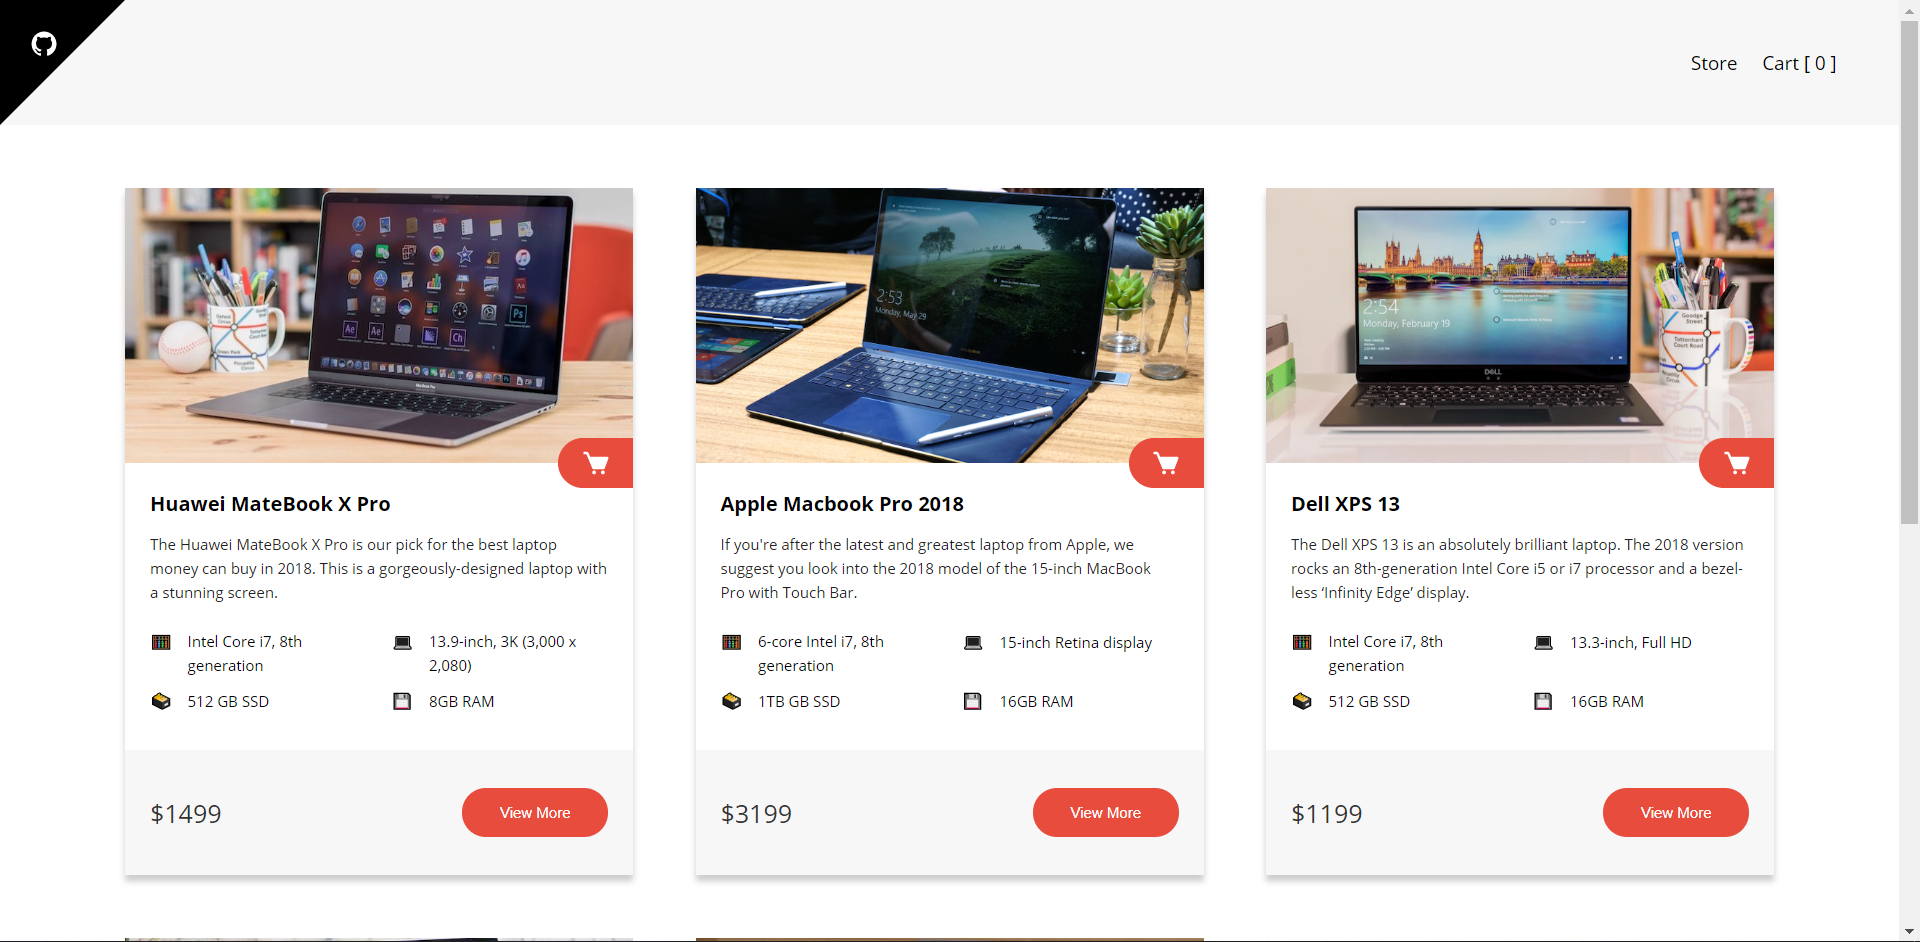
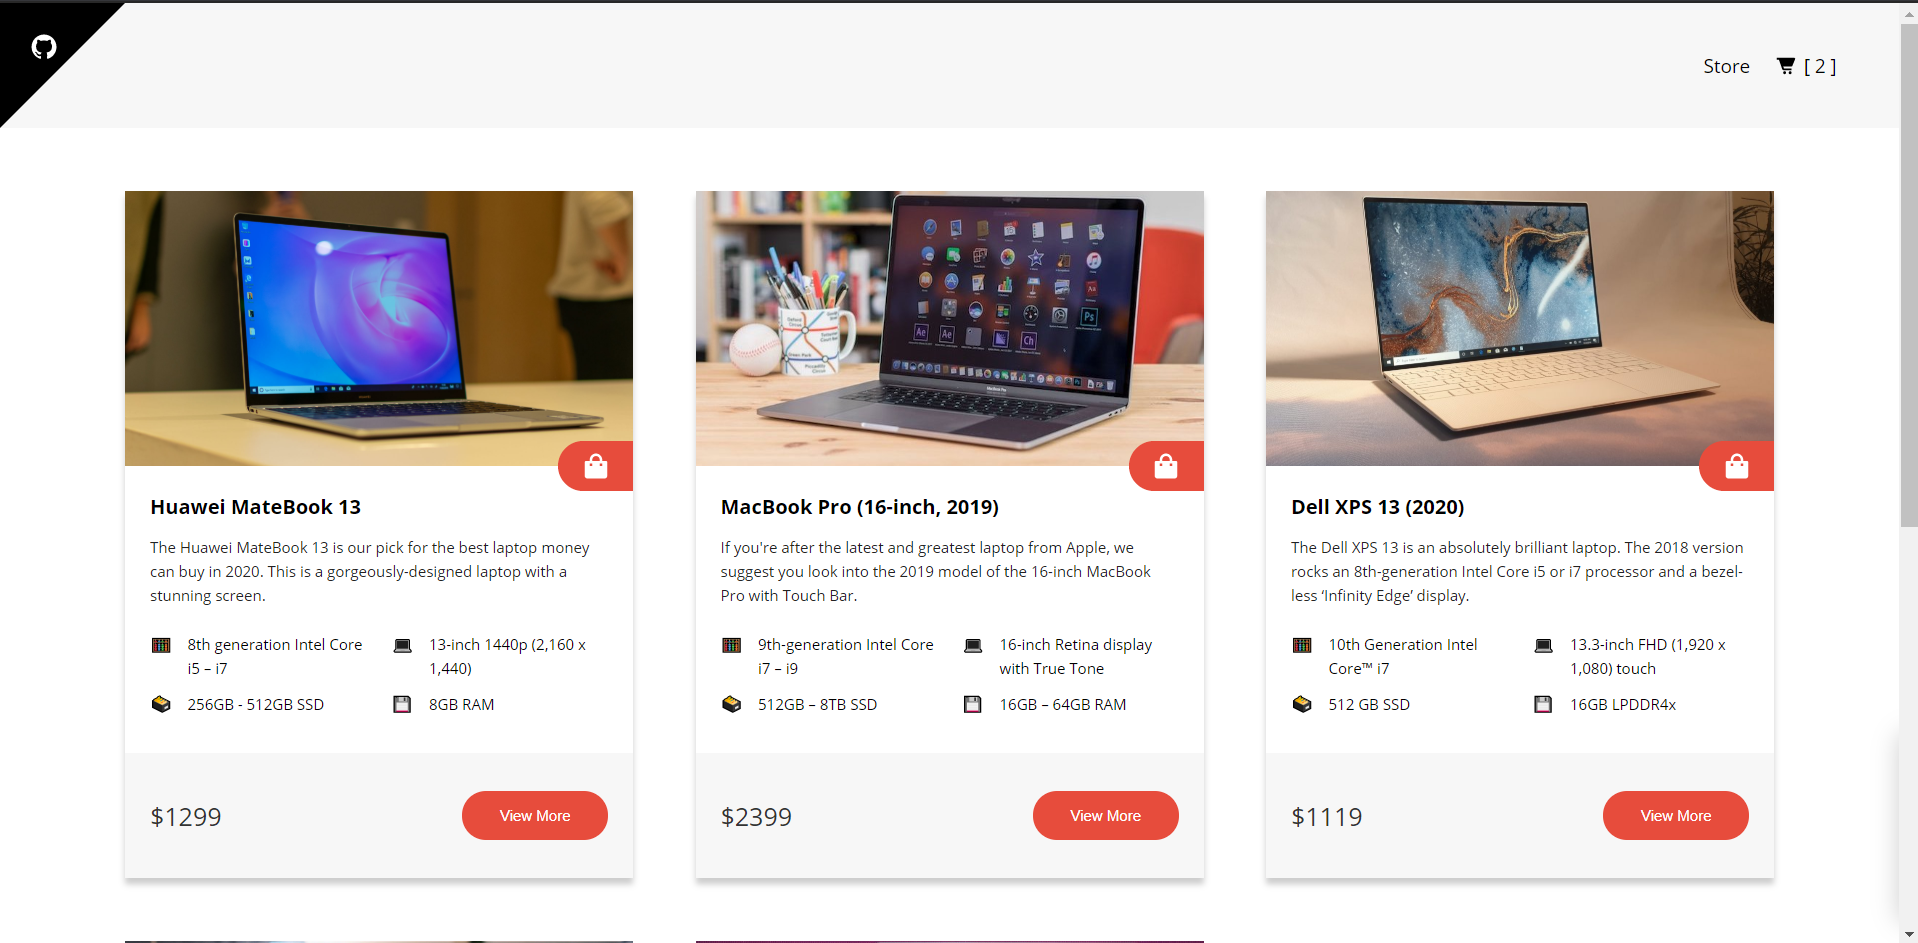
implemented data persistance with redux-persist and remove and clear functionality

diff --git a/src/pages/product-view/product-view.component.jsx b/src/pages/product-view/product-view.component.jsx
@@ -1,38 +1,52 @@
 import React from "react";
 import { connect } from "react-redux";
+import { addItemToCart } from "../../redux/cart/cart.actions";
 import { selectProductItem } from "../../redux/shop-store/shop-store.selector";
 import "./product-view.component.scss";
 
-const ProductView = ({ product }) => {
-	const { fields } = product;
+const ProductView = ({ product, addItem }) => {
+	const {
+		fields: {
+			item: { main_features, images, description },
+			productName,
+			availability,
+			price,
+			stars,
+			thumbnail,
+		},
+		sys: { id },
+	} = product;
+
 	return (
 		<div className="product">
 			<div className="product__features">
 				<h1 className="product__heading--primary">Features</h1>
-				{fields.item.main_features.map((detail) => (
-					<div className="product__content" key={fields.item.main_features.findIndex((ind) => ind === detail)}>
+				{main_features.map((detail) => (
+					<div className="product__content" key={main_features.findIndex((ind) => ind === detail)}>
 						<h2 className="product__heading--secondary">{detail.feature}</h2>
 						<p className="product__paragraph">{detail.description}</p>
 					</div>
 				))}
 			</div>
 			<div className="product__story">
-				<h1 className="product__heading--primary-red">{fields.productName}</h1>
-				<p className="product__paragraph">{fields.item.description}</p>
+				<h1 className="product__heading--primary-red">{productName}</h1>
+				<p className="product__paragraph">{description}</p>
 				<div className="product__availability">
-					Availability: <span>{fields.availability}</span>
+					Availability: <span>{availability}</span>
 				</div>
 				<div className="product__price">
-					Price: <span>${fields.price}</span>
+					Price: <span>${price}</span>
 				</div>
 				<div className="product__rating">
-					Rating: <span>{fields.stars} / (7)</span>
+					Rating: <span>{stars} / (7)</span>
 				</div>
-				<button className="btn">Add To Cart</button>
+				<button className="btn" onClick={() => addItem({ id, productName, price, thumbnail })}>
+					Add To Cart
+				</button>
 			</div>
 			<div className="product__thumbnail">
-				{fields.item.images.map((curImg) => {
-					const index = fields.item.images.findIndex((img) => img === curImg);
+				{images.map((curImg) => {
+					const index = images.findIndex((img) => img === curImg);
 					return (
 						<div className="product__thumbnail--img" key={index}>
 							<img src={curImg} alt={`thumbnail-${index}`} />
@@ -44,10 +58,12 @@ const ProductView = ({ product }) => {
 	);
 };
 
-const mapStateToProps = (state, { match }) => {
-	return {
-		product: selectProductItem(match.url)(state),
-	};
-};
+const mapStateToProps = (state, { match }) => ({
+	product: selectProductItem(match.url)(state),
+});
 
-export default connect(mapStateToProps)(ProductView);
+const mapDispatchToProps = (dispatchEvent) => ({
+	addItem: (item) => dispatchEvent(addItemToCart(item)),
+});
+
+export default connect(mapStateToProps, mapDispatchToProps)(ProductView);

diff --git a/src/components/cart-item/cart-item.component.jsx b/src/components/cart-item/cart-item.component.jsx
@@ -1,14 +1,13 @@
 import React from "react";
-import "./cart-item.component.scss";
-
 import { connect } from "react-redux";
-import { addItemToCart } from "../../redux/cart/cart.actions";
+import { addItemToCart, removeItemFromCart, clearItemFromCart } from "../../redux/cart/cart.actions";
 
+import "./cart-item.component.scss";
 import addBtn from "../../assets/bx-plus.svg";
 import minBtn from "../../assets/bx-minus.svg";
 import trashBtn from "../../assets/bx-trash.svg";
 
-const CartItem = ({ addItem, item }) => {
+const CartItem = ({ addItem, removeItem, clearItem, item }) => {
 	const { thumbnail, productName, quantity, price } = item;
 	return (
 		<div className="cart__item">
@@ -24,21 +23,21 @@ const CartItem = ({ addItem, item }) => {
 					<img src={addBtn} alt="add-icon" />
 				</div>
 				<div className="cart__item-adjuster--value">{quantity}</div>
-				<div className="cart__item-adjuster--btn">
+				<div className="cart__item-adjuster--btn" onClick={() => removeItem(item)}>
 					<img src={minBtn} alt="minus-icon" />
 				</div>
 			</div>
-			<div className="cart__item-removeBtn">
+			<div className="cart__item-removeBtn" onClick={() => clearItem(item)}>
 				<img src={trashBtn} alt="trash-btn" />
 			</div>
 		</div>
 	);
 };
 
-const mapDispatchToProps = (dispatchEvent) => {
-	return {
-		addItem: (item) => dispatchEvent(addItemToCart(item)),
-	};
-};
+const mapDispatchToProps = (dispatchEvent) => ({
+	addItem: (item) => dispatchEvent(addItemToCart(item)),
+	removeItem: (item) => dispatchEvent(removeItemFromCart(item)),
+	clearItem: (item) => dispatchEvent(clearItemFromCart(item)),
+});
 
 export default connect(null, mapDispatchToProps)(CartItem);

diff --git a/src/components/Navigation/navigation.component.jsx b/src/components/Navigation/navigation.component.jsx
@@ -1,6 +1,7 @@
 import React from "react";
 import styled from "styled-components";
 import { connect } from "react-redux";
+import { createStructuredSelector } from "reselect";
 import { toggleCart } from "../../redux/cart/cart.actions";
 import { NavLink } from "react-router-dom";
 
@@ -8,6 +9,7 @@ import "./navigation.component.scss";
 import GithubLogo from "../../assets/bxl-github.svg";
 import cartIcon from "../../assets/bxs-cart-alt.svg";
 import Cart from "../cart/cart.component";
+import { selectCartItemsCount } from "../../redux/cart/cart.selector";
 
 const GithubAnchor = styled.a`
 	&:link,
@@ -32,7 +34,7 @@ const GithubAnchor = styled.a`
 	}
 `;
 
-const Navigation = ({ toggleCart }) => {
+const Navigation = ({ toggleCart, cartItemsCount }) => {
 	const anchor = "https://github.com/Kevin-kirago/Laptop-Store";
 
 	return (
@@ -48,7 +50,7 @@ const Navigation = ({ toggleCart }) => {
 				</li>
 				<li className="navigation__item" onClick={toggleCart}>
 					<span className="navigation__item--link">
-						<img src={cartIcon} alt="cart-icon" />[ 0 ]
+						<img src={cartIcon} alt="cart-icon" />[ {`${cartItemsCount}`} ]
 					</span>
 				</li>
 			</ul>
@@ -57,10 +59,14 @@ const Navigation = ({ toggleCart }) => {
 	);
 };
 
+const mapStateToProps = createStructuredSelector({
+	cartItemsCount: selectCartItemsCount,
+});
+
 const mapDispatchToProps = (dispatchEvent) => {
 	return {
 		toggleCart: () => dispatchEvent(toggleCart()),
 	};
 };
 
-export default connect(null, mapDispatchToProps)(Navigation);
+export default connect(mapStateToProps, mapDispatchToProps)(Navigation);

diff --git a/src/redux/cart/cart.utils.js b/src/redux/cart/cart.utils.js
@@ -17,3 +17,31 @@ export const addItemToCart = (cartItems, cartItemToAdd) => {
 	// if item does not exists push item to cart and define quantity as 1 return updated cartitem data
 	return [...cartItems, { ...cartItemToAdd, quantity: 1 }];
 };
+
+// remove item from cart
+export const removeItemFromCart = (cartItems, cartItemToRemove) => {
+	// check if the item already exists in cart
+	const existingCartItem = cartItems.find((cartItem) => cartItem.id === cartItemToRemove.id);
+
+	/* condition : if existingCartItem = true check to see if the quantity is equal to one
+	 if true filter the cartItem and return new array 
+	*/
+	if (existingCartItem.quantity === 1) {
+		return cartItems.filter((cartItem) => cartItem.id !== cartItemToRemove.id);
+	}
+
+	// else find item to remove and restructure the quantity
+	return cartItems.map((item) => {
+		if (item.id === cartItemToRemove.id) {
+			// pull the quantity value and decrement
+			return { ...item, quantity: item.quantity - 1 };
+		} else {
+			return item;
+		}
+	});
+};
+
+// clear item from cart
+export const clearItemFromCart = (cartItems, cartItemToClear) => {
+	return cartItems.filter((cartItem) => cartItem.id !== cartItemToClear.id);
+};

diff --git a/src/redux/cart/cart.reducer.js b/src/redux/cart/cart.reducer.js
@@ -1,5 +1,5 @@
 import CartActionTypes from "./cart.types";
-import { addItemToCart } from "./cart.utils";
+import { addItemToCart, removeItemFromCart, clearItemFromCart } from "./cart.utils";
 
 const initial_state = {
 	isOpen: false,
@@ -17,6 +17,16 @@ const cartReducer = (state = initial_state, action) => {
 			return {
 				...state,
 				cart_items: addItemToCart(state.cart_items, action.payload),
+			};
+		case CartActionTypes.REMOVE_ITEM:
+			return {
+				...state,
+				cart_items: removeItemFromCart(state.cart_items, action.payload),
+			};
+		case CartActionTypes.CLEAR_ITEM:
+			return {
+				...state,
+				cart_items: clearItemFromCart(state.cart_items, action.payload),
 			};
 		default:
 			return state;

diff --git a/src/components/store-item/store-item.component.jsx b/src/components/store-item/store-item.component.jsx
@@ -10,8 +10,6 @@ const StoreItem = ({ item, history, match, dispatch }) => {
 		sys: { id, linkUrl },
 	} = item;
 
-	const itemToAdd = { id, thumbnail, productName, price };
-
 	return (
 		<div className="store__item">
 			<HeaderSection>
@@ -47,7 +45,7 @@ const StoreItem = ({ item, history, match, dispatch }) => {
 					</div>
 				</div>
 			</MainSection>
-			<span className="addToCartBtn" onClick={() => dispatch(addItemToCart(itemToAdd))}>
+			<span className="addToCartBtn" onClick={() => dispatch(addItemToCart({ id, thumbnail, productName, price }))}>
 				<img src={addIcon} alt="add item to cart icon" />
 			</span>
 			<FooterSection>

diff --git a/src/index.js b/src/index.js
@@ -2,17 +2,20 @@ import React from "react";
 import ReactDOM from "react-dom";
 import "./index.css";
 import { Provider } from "react-redux";
+import { PersistGate } from "redux-persist/integration/react";
 
 import App from "./app/App";
 import { BrowserRouter as Router } from "react-router-dom";
-import store from "./redux/store";
+import { persistor, store } from "./redux/store";
 
 import * as serviceWorker from "./serviceWorker";
 
 ReactDOM.render(
 	<Provider store={store}>
 		<Router>
-			<App />
+			<PersistGate persistor={persistor}>
+				<App />
+			</PersistGate>
 		</Router>
 	</Provider>,
 	document.getElementById("container")

diff --git a/src/components/cart/cart.component.jsx b/src/components/cart/cart.component.jsx
@@ -25,9 +25,16 @@ class Cart extends React.Component {
 						</div>
 					</div>
 					<div className="cart__shelf">
-						{this.props.items.map((item) => (
-							<CartItem key={item.id} item={item} />
-						))}
+						{this.props.items.length >= 1 ? (
+							this.props.items.map((item) => <CartItem key={item.id} item={item} />)
+						) : (
+							<div className="cart__shelf-text">
+								Add some products in the cart
+								<span role="img" aria-label="shop-emoji">
+									🛒
+								</span>
+							</div>
+						)}
 					</div>
 					<div className="cart__footer">
 						<div className="cart__total">

diff --git a/src/redux/root-reducers.js b/src/redux/root-reducers.js
@@ -1,11 +1,20 @@
 // Root-Reducer Represent all reducers as the base state reduver
 import { combineReducers } from "redux";
+import { persistReducer } from "redux-persist";
+import storage from "redux-persist/lib/storage";
+
 import cartReducer from "./cart/cart.reducer";
 import shopStoreReducer from "./shop-store/shop-store.reducer";
+
+const persistConfig = {
+	key: "container",
+	storage,
+	whitelist: ["cart"],
+};
 
 const rootReducer = combineReducers({
 	cart: cartReducer,
 	store: shopStoreReducer,
 });
 
-export default rootReducer;
+export default persistReducer(persistConfig, rootReducer);

diff --git a/src/redux/store.js b/src/redux/store.js
@@ -1,4 +1,5 @@
 import { createStore, applyMiddleware } from "redux";
+import { persistStore } from "redux-persist";
 import { logger } from "redux-logger";
 import rootReducer from "./root-reducers";
 
@@ -9,6 +10,7 @@ if (process.env.NODE_ENV === "development") {
 	middlewares.push(logger);
 }
 
-const store = createStore(rootReducer, applyMiddleware(...middlewares));
+export const store = createStore(rootReducer, applyMiddleware(...middlewares));
+export const persistor = persistStore(store);
 
-export default store;
+export default { persistor, store };

diff --git a/src/components/cart/cart.component.scss b/src/components/cart/cart.component.scss
@@ -9,6 +9,11 @@
 			width: 1rem;
 			background-color: #111;
 		}
+
+		&::-webkit-scrollbar-thumb {
+			border-radius: 4px;
+			background-color: #444;
+		}
 	}
 
 	&__header {
@@ -40,6 +45,15 @@
 	&__shelf {
 		position: relative;
 		padding-bottom: 15rem;
+
+		&-text {
+			display: grid;
+			font-size: 1.5rem;
+			color: #fff;
+			height: 10rem;
+			align-content: center;
+			justify-items: center;
+		}
 	}
 
 	&__footer {

diff --git a/src/redux/cart/cart.selector.js b/src/redux/cart/cart.selector.js
@@ -3,3 +3,4 @@ import { createSelector } from "reselect";
 const selectCart = (state) => state.cart;
 export const selectCartDrawer = createSelector([selectCart], (cart) => cart.isOpen);
 export const selectCartItems = createSelector([selectCart], (cart) => cart.cart_items);
+export const selectCartItemsCount = createSelector([selectCartItems], (cartItems) => cartItems.length);
